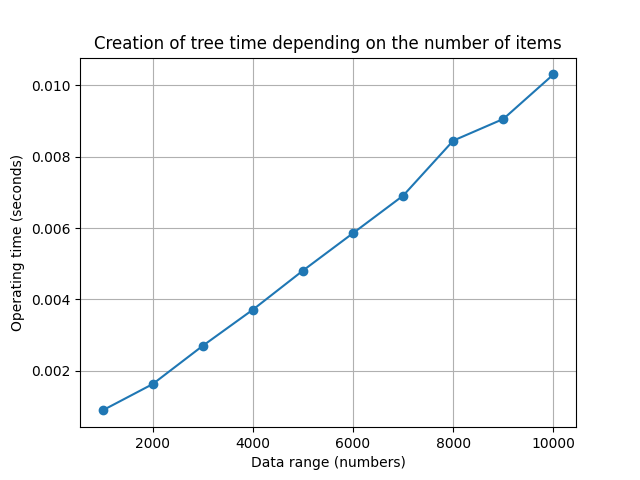
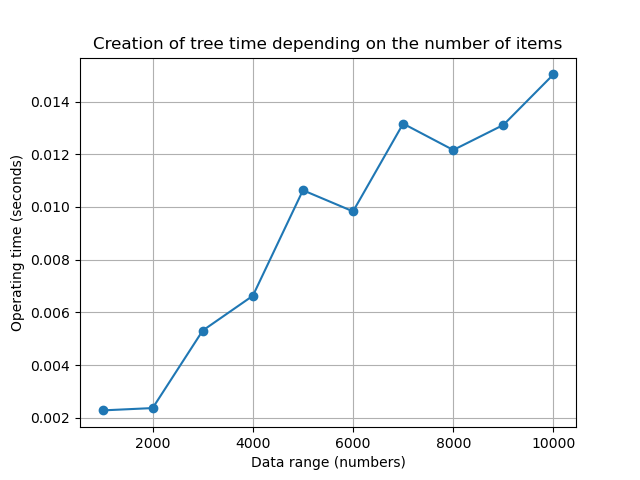
added some tests

diff --git a/drzewa/binary_search_tree.py b/drzewa/binary_search_tree.py
@@ -39,10 +39,6 @@ def search(root, key):
     return search(root.left, key)
 
 
-# Note that it is not a generic inorder successor
-# function. It mainly works when the right child
-# is not empty, which is  the case we need in BST
-# delete.
 def get_successor(curr):
     curr = curr.right
     while curr is not None and curr.left is not None:
@@ -51,8 +47,6 @@ def get_successor(curr):
 
 
 # This function deletes a given key x from the
-# given BST and returns the modified root of the
-# BST (if it is modified).
 def del_node(root, x):
 
     # Base case
@@ -85,29 +79,30 @@ def del_node(root, x):
     return root
 
 
-# Utility function to do inorder traversal
-def print_tree(root):  # zjebane do poprawy
+def in_order(root):
     if root is not None:
-        print_tree(root.left)
+        in_order(root.left)
         print(root.key, end=" ")
-        print_tree(root.right)
+        in_order(root.right)
 
 
-def Test_Insertion():
-    pass
+def display_tree(node, level=0, prefix="Root: "):
+    if node is not None:
+        print(" " * (level * 4) + prefix + str(node.key))
+        if node.left or node.right:
+            if node.left:
+                display_tree(node.left, level + 1, "L--- ")
+            else:
+                print(" " * ((level + 1) * 4) + "L--- None")
+            if node.right:
+                display_tree(node.right, level + 1, "R--- ")
+            else:
+                print(" " * ((level + 1) * 4) + "R--- None")
 
 
-def Test_SearchTree():
-    pass
-
-
-def Test_NotInTree():
-    pass
-
-
-def create_tree(size):
-    r = Node(test_data[0])
-    for i, digit in enumerate(test_data[:size]):
+def create_tree(size, data):
+    r = Node(data[0])
+    for i, digit in enumerate(data[:size]):
         if i == 0:
             continue
         r = insert(r, digit)
@@ -116,7 +111,7 @@ def create_tree(size):
 
 def runtime(size):
     start_time = time()
-    create_tree(size)
+    create_tree(size, test_data)
     return time() - start_time
 
 
@@ -127,6 +122,24 @@ def benchmarks():
     graph_creating_tree(results, 'binary_search_tree_graph')
 
 
-# Driver code
+def is_valid(root):
+    if root.left:
+        if root.left.key >= root.key:
+            return False
+        if not is_valid(root.left):
+            return False
+    if root.right:
+        if root.right.key <= root.key:
+            return False
+        if not is_valid(root.right):
+            return False
+    return True
+
+
 if __name__ == "__main__":
-    benchmarks()
+    # benchmarks()
+    values = [3,4,2,6,4,1,3,7,8]
+    t1 = create_tree(len(values), values)
+    del_node(t1, 1)
+    del_node(t1, 3)
+    display_tree(t1)

diff --git a/drzewa/test_binary_search_tree.py b/drzewa/test_binary_search_tree.py
@@ -1,0 +1,50 @@
+from binary_search_tree import create_tree, is_valid, insert, search, del_node
+import pytest
+
+
+def test_create_tree():
+    values = [3,4,2,6,4,1,3,7,8]
+    t1 = create_tree(len(values), values)
+    assert t1.key == 3
+    assert t1.left.key == 2
+    assert t1.right.key == 4
+
+
+def test_is_valid():
+    values = [3,4,2,6,4,1,3,7,8]
+    t1 = create_tree(len(values), values)
+    assert is_valid(t1)
+
+
+def test_is_valid_false():
+    values = [3,4,2,6,4,1,3,7,8]
+    t1 = create_tree(len(values), values)
+    t1.left.key = 0
+    assert not is_valid(t1)
+
+
+def test_search():
+    values = [3,4,2,6,4,1,3,7,8]
+    t1 = create_tree(len(values), values)
+    assert search(t1, 6)
+    assert search(t1, 8)
+    assert not search(t1, 10)
+
+
+def test_insert():
+    values = [3,4,2,6,4,1,3,7,8]
+    t1 = create_tree(len(values), values)
+    insert(t1, 10)
+    assert search(t1, 10)
+    assert is_valid(t1)
+
+
+def test_del():
+    values = [3,4,2,6,4,1,3,7,8]
+    t1 = create_tree(len(values), values)
+    del_node(t1, 1)
+    del_node(t1, 3)
+    assert not search(t1, 1)
+    assert not search(t1, 3)
+    assert is_valid(t1)
+    

diff --git a/kopce/kopiec_n_arny.py b/kopce/kopiec_n_arny.py
@@ -117,6 +117,7 @@ def heap_pop_test(data, n):
 
 def main():
     a = generate_numbers()
+    h1 = heap([], 2)
     create2 = heap_create_test(a, 2)
     pop2 = heap_pop_test(a, 2)
     create5 = heap_create_test(a, 5)
@@ -125,6 +126,6 @@ def main():
     pop7 = heap_pop_test(a, 7)
     graph_creating_heap(create2, create5, create7, "Final create")
     graph_creating_pop(pop2, pop5, pop7, "Final Pop")
-
+    h1.pop_root(2)
 
 main()
